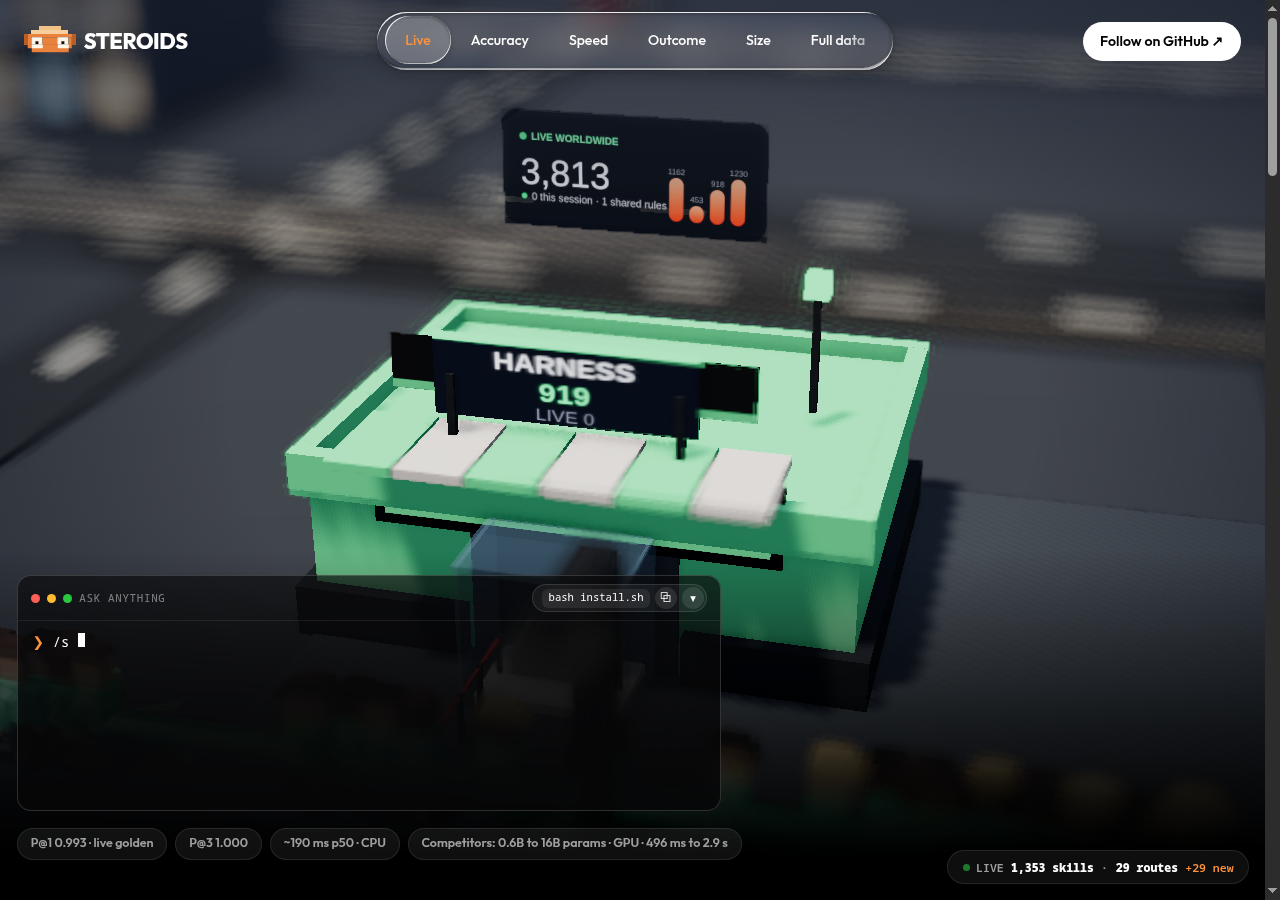
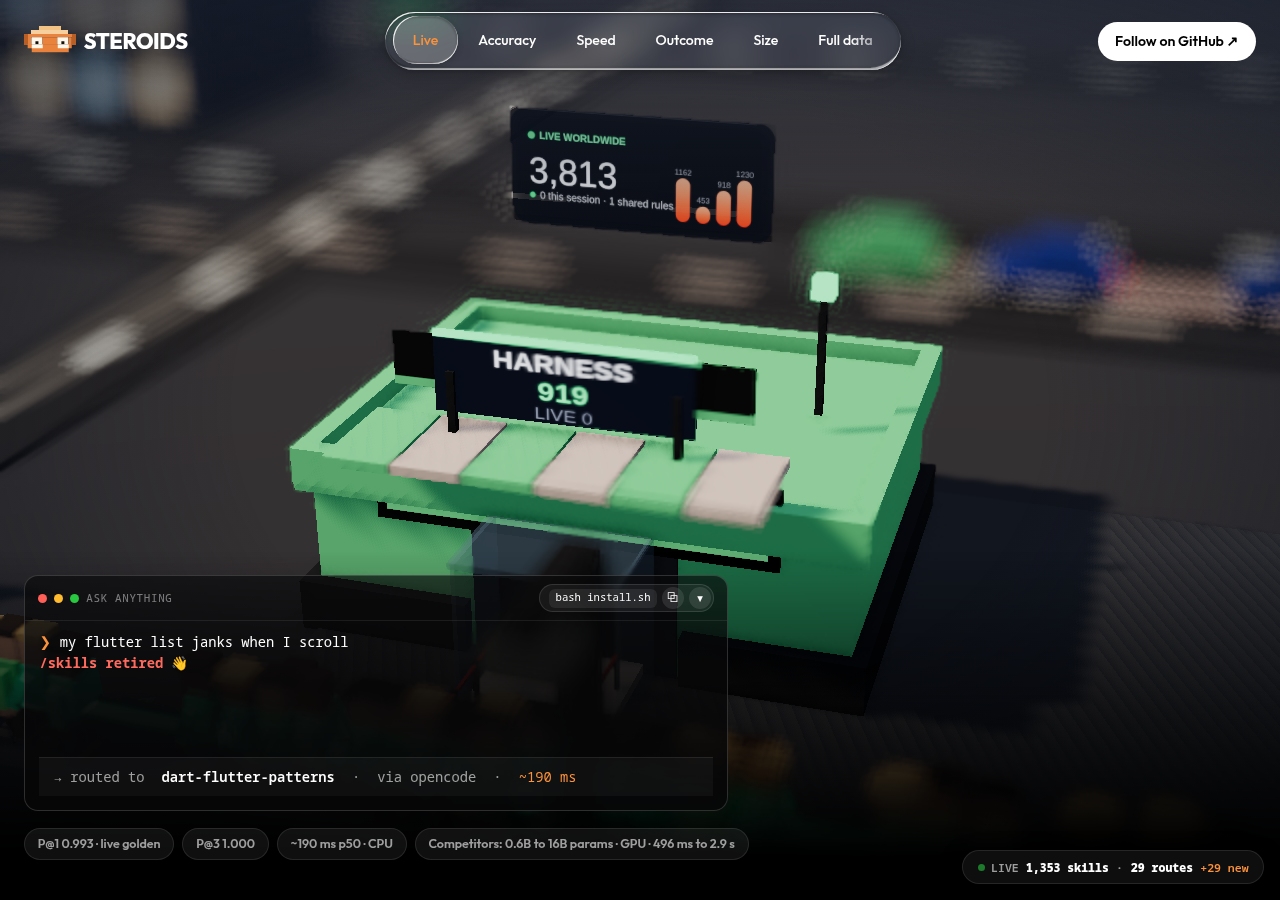
docs: plain human voice, hero shot shows finished demo

diff --git a/README.md b/README.md
@@ -4,13 +4,13 @@
 
 ![offline-first](https://img.shields.io/badge/offline--first-yes-7ee787) ![P@1 blind-149](https://img.shields.io/badge/P%401_0.993-1f6feb) ![telemetry](https://img.shields.io/badge/telemetry-zero-8b949e) ![v0.1.0](https://img.shields.io/badge/version-0.1.0-8b949e)
 
-Universal skill router plugin for AI coding harnesses. **Steroids is not a model** — it indexes the skills already installed on your machine and recommends the relevant ones for each prompt.
+A skill router plugin for AI coding tools. Steroids is not a model. It looks at the skills already on your machine and points you to the ones that fit your prompt.
 
 [![Live site preview](docs/img/preview-index.png)](index.html)
 
-> Preview of `index.html` (click through opens the full interactive page). GitHub READMEs render as text/markdown only — no live CSS/JS/iframe — so for the real web look host it with GitHub Pages (`Settings → Pages → Deploy from branch → / (root)`) then it serves `index.html` as a website.
+> This is what `index.html` looks like. Click it for the full page. A README can only show pictures, it cannot run the site. To put the real site online, use GitHub Pages (Settings, Pages, Deploy from branch, root) and it will serve `index.html`.
 
-[Router architecture diagram](docs/architecture.html) (interactive, explorable).
+Router architecture diagram: [docs/architecture.html](docs/architecture.html). Open it in a browser to explore.
 
 ## 30-second quickstart
 
@@ -23,22 +23,18 @@ bash install.sh                               # deploy binary + hooks (first tim
 bash scripts/demo-serve.sh                # demo on :8903, auto-closes with the CLI
 ```
 
-`steroids "query"` prints a short hint like `build,flutter -> dart-flutter-patterns/...`. Load what applies, skip the rest.
+You ask, it answers with a short hint such as `build,flutter -> dart-flutter-patterns/...`. Load the skills that fit, ignore the rest.
 
 ### First-run edge states
 
-Works from a clean checkout with zero install (the `install.sh` binary
-copy is convenience). Four states, all demoed in [`demo/edge-states.md`](demo/edge-states.md):
+It works straight from a fresh checkout, no install needed (`install.sh` just copies the binary for convenience). Four edge cases, all shown in [`demo/edge-states.md`](demo/edge-states.md):
 
-- **No skills** — preflight refuses the install (exit 1) before copying anything; an empty index would be useless.
-- **No embed model** — install proceeds with a loud warning; routing falls back to lexical-only.
-- **Thousands of skills** — 3915 indexed in ~4s, queries sub-second; scale is linear-ish, not a cliff.
-- **Pure-noise query** — prints `no confident skill — abstaining` (exit 0) and logs it hash-only for later mining; near-misses still route by design.
+- **No skills**: install stops before copying anything (exit 1). An empty index would be useless.
+- **No embed model**: install goes ahead with a loud warning. Routing falls back to plain keyword matching.
+- **Thousands of skills**: 3915 indexed in about 4s, answers in under a second. Growth is steady, not a cliff.
+- **Pure-noise query**: prints `no confident skill — abstaining` (exit 0) and stores only a hash of it for later review. Close misses still get routed, that is on purpose.
 
-Note: `install.sh` runs the eval gate first, and the gate is calibrated
-to the dev machine's exact index + warmed memory — a fresh machine with
-a different skill set can be refused on precision grounds. Refusal lands
-before any file is copied, so retrying after syncing skills is safe.
+Heads up: `install.sh` runs an accuracy check first, tuned to this dev machine's skill set. On a different machine with different skills it can say no. That happens before any file is copied, so just sync your skills and try again.
 
 ## Results (verified 2026-09-25; live index 1265 skills — re-run `steroids --count`)
 
@@ -55,7 +51,7 @@ Re-run any time: `python3 tests/benchmark.py --live` (all three sets), `--golden
 ![Outcome chart](docs/img/chart-outcome.png)
 ![Headline numbers](docs/img/chart-size.png)
 
-Interactive versions live in `index.html`. Different pools/metrics from SkillRouter et al. — only params, latency and cost compare directly. Full version with evidence links: `docs/STEROIDS_V1.md` §22 (D-3).
+The charts above come from `index.html`, where they are interactive. Ours and SkillRouter's numbers come from different tests, so only size, speed and cost can be compared head to head. Full writeup with links: `docs/STEROIDS_V1.md` §22 (D-3).
 
 ## Multi-harness support
 
@@ -68,40 +64,37 @@ Interactive versions live in `index.html`. Different pools/metrics from SkillRou
 
 ## How routing works
 
-- **TF-IDF scoring** over indexed skill names, descriptions, and keywords.
-- **Semantic backup**: trigram similarity + offline ONNX embeddings rescue paraphrased prompts (lexical vote still wins ties).
-- **Stemming** so `testing`/`tests` match the same skills.
-- **NEG blocklist** filters out noise terms before scoring.
-- **Closed-loop memory + log** records which suggestions were useful and biases future routing (accepts bonus, shared rules, `--correct`).
-- **Missing skills installable**: `steroids --install-skill <name>` fetches a validated SKILL.md into the index.
+- **Keyword scoring** (TF-IDF) over skill names, descriptions, and keywords.
+- **Backup for reworded prompts**: trigram matching plus offline ONNX embeddings. Keywords still break ties.
+- **Stemming**, so `testing` and `tests` count as the same word.
+- **Blocklist** (NEG) throws out noise words before scoring.
+- **Memory**: it remembers which suggestions helped and leans that way next time (accepts bonus, shared rules, `--correct`).
+- **Missing skills**: `steroids --install-skill <name>` downloads a checked SKILL.md into the index.
 
 ## Privacy
 
-Steroids runs fully offline on your machine. Routine routing sends nothing anywhere: the served log (`served.jsonl`) stores only a hash of your prompt plus the trigger words it attempted — never the prompt text — and misses are mined locally into draft skill proposals a human must approve. If the router misses, one command files a correction straight into that miss pipeline: `steroids --correct what you asked --skill the-right-skill`. Sharing with a team pool is explicitly opt-in: nothing leaves your machine unless you pass `--team <pool.json>`.
+Steroids works fully offline. Normal use sends nothing anywhere. The log (`served.jsonl`) keeps only a hash of your prompt plus the trigger words it tried, never the prompt itself. Misses get turned into draft skill ideas on your machine, and a person approves them. If the router gets it wrong, file it with: `steroids --correct what you asked --skill the-right-skill`. Team sharing is opt-in only: nothing leaves your machine unless you pass `--team <pool.json>`.
 
 ## Limitations
 
-- Semantic layer can outvote keywords on close calls (1 known flip: django-tdd vs python-testing-patterns; your accepts overrule it).
-- Installs only from the curated HF skills repo (`--install-skill`); arbitrary URLs refused.
-- Hints are suggestions, not guarantees — the agent decides what to load.
+- Keywords usually win, but on close calls the semantic layer can overrule them. One known case: django-tdd vs python-testing-patterns. Your accepts outrank it.
+- `--install-skill` only takes skills from the curated list. Random URLs are refused.
+- Hints are suggestions. The agent picks what to load.
 
 ## Lens
 
-**Lens** — watch agent visual work live: `steroids lens --watch ./shots`
-serves `http://127.0.0.1:8904` where every new screenshot pops a card
-(thumbnail, name, time). Any harness, all local, nothing uploaded.
+**Lens** shows visual agent work as it happens: `steroids lens --watch ./shots`
+serves `http://127.0.0.1:8904`, and each new screenshot shows up as a card
+(picture, name, time). Works with any harness. All local, nothing uploaded.
 
 ## Roadmap
 
-Tracked privately while v1 is validated — public milestones ship with the v1 announcement.
+The roadmap is private until v1 is proven. Public milestones come with the v1 announcement.
 
 ## Contributing
 
-See [CONTRIBUTING.md](CONTRIBUTING.md) — process authority, card workflow,
-verify-before-commit, commit format.
+How we work: [CONTRIBUTING.md](CONTRIBUTING.md). Read it before you commit.
 
 ## License
 
-MIT — see [LICENSE](LICENSE). You may use, modify, and share this project,
-including commercially, provided the copyright notice and license travel
-with it.
+MIT, see [LICENSE](LICENSE). Use it, change it, sell it, just keep the copyright notice and license with it.
